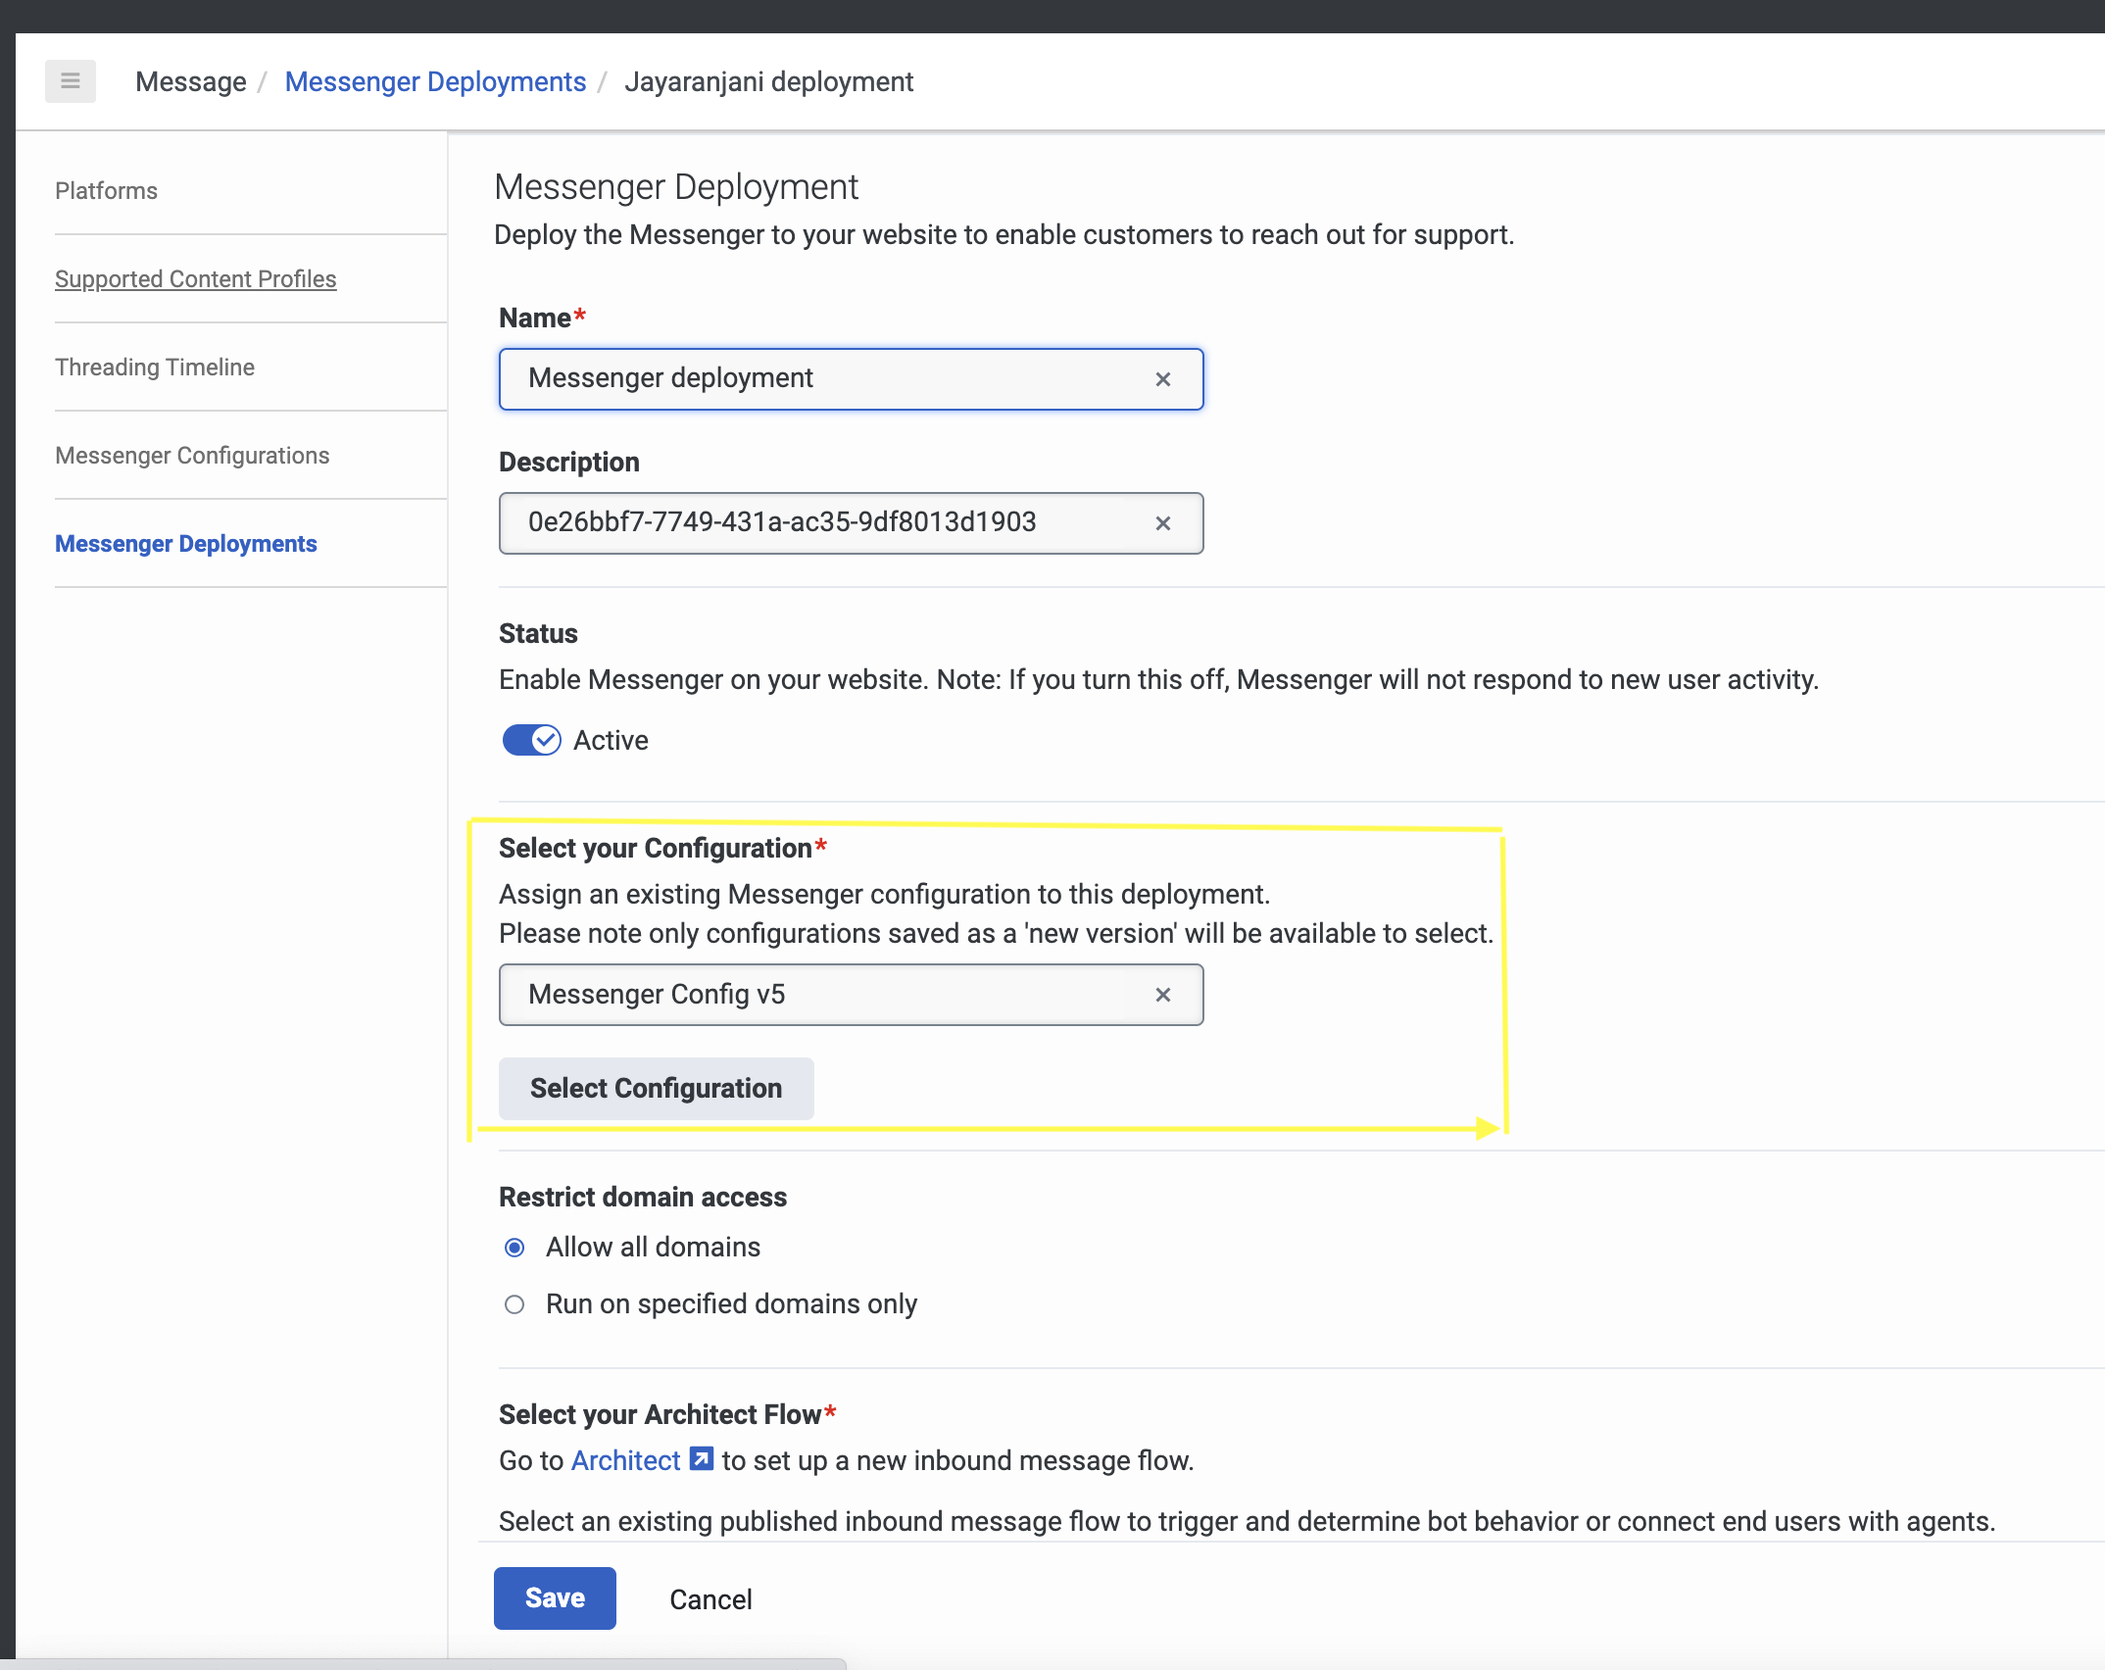
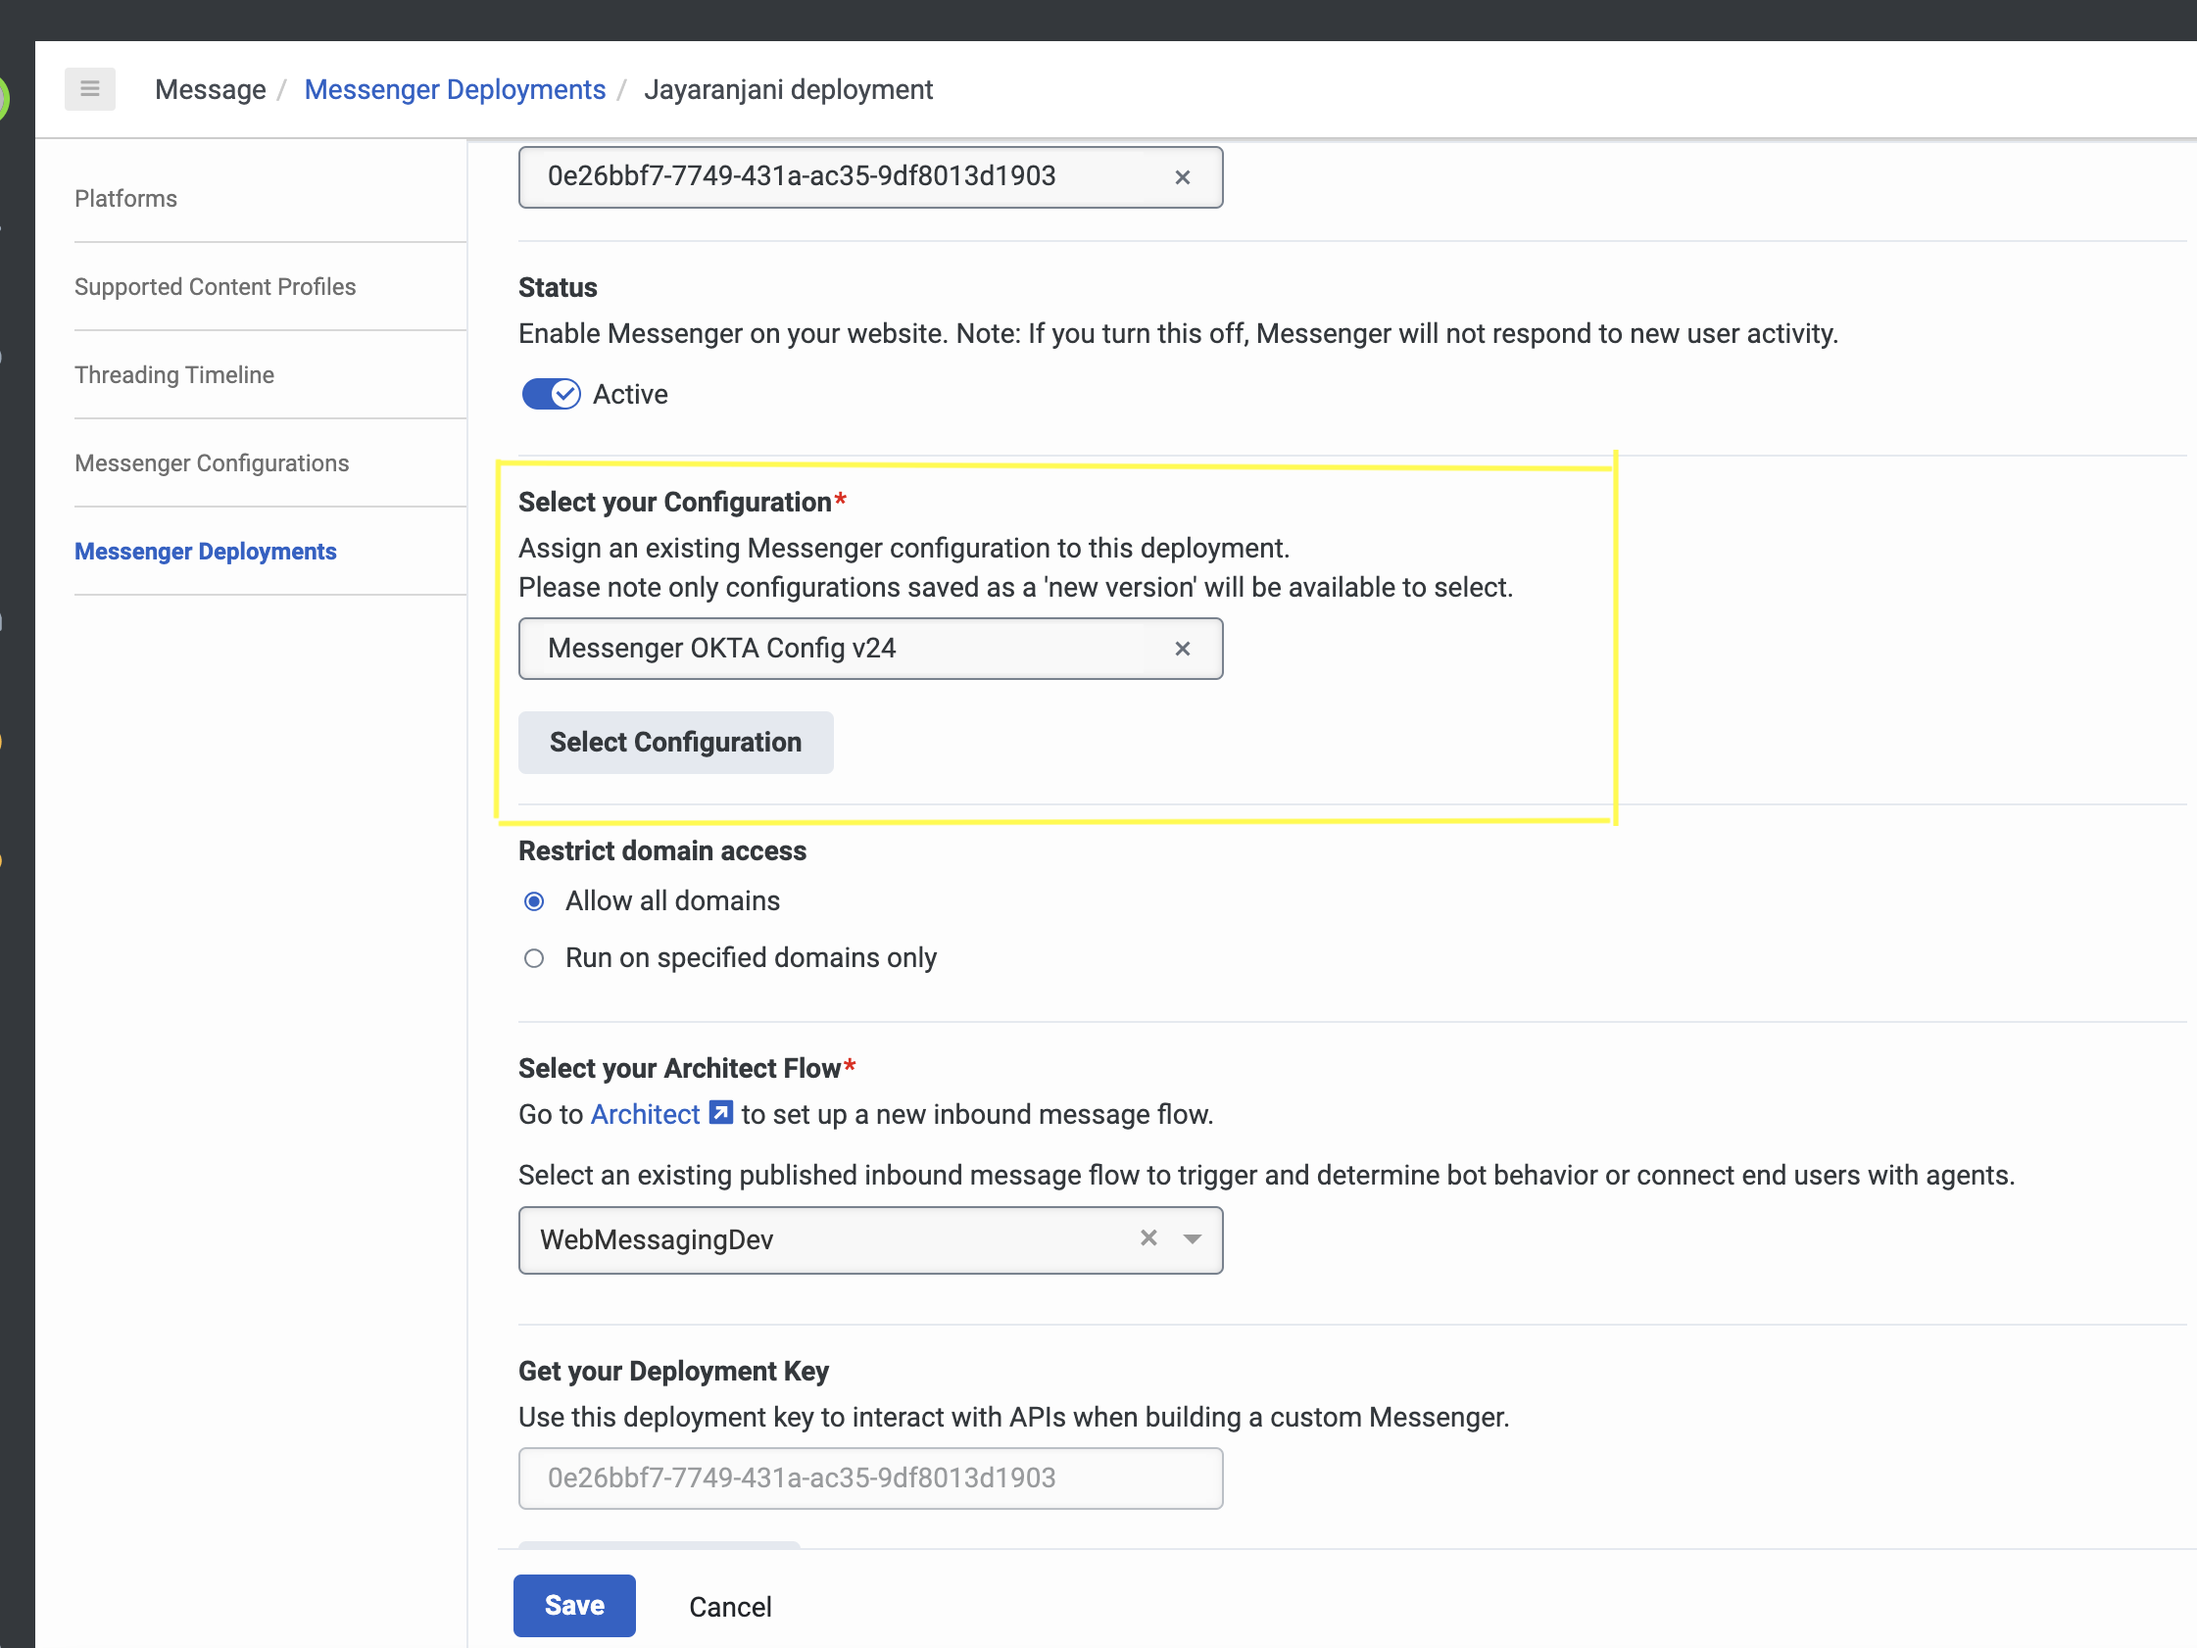
WEBMESS-601 : Messenger Integration with OKTA - Blueprint

Changed region(s): [[0.0, 0.0, 1.0, 1.0]]

diff --git a/blueprint/index-draft.md b/blueprint/index-draft.md
@@ -21,7 +21,7 @@ This page explains the steps that the users should follow to **Integrate Messeng
 
 ## Solution components
 
-**Genesys Cloud** - A suite of Genesys cloud services for enterprise-grade communications, collaboration, and contact center management. In this solution, a Genesys Cloud user account is required in order for the Messenger to be authorized to integrate with Genesys Cloud.
+**Genesys Cloud** - A suite of Genesys cloud services for enterprise-grade communications, collaboration, and contact center management. In this solution, a Genesys Cloud user account is required for your application to be authorized to integrate with Messenger.
 
 ## Prerequisites
 
@@ -44,7 +44,7 @@ Follow these instructions to integrate OKTA with Messenger.
 
 - [OKTA Set up](#okta-set-up "Goes to the OKTA Set up section")
 - [Configure Genesys Cloud](#configure-genesys-cloud "Goes to Configure Genesys Cloud")
-- [ADMIN UI Integration](#admin-ui-integration "Goes to ADMIN UI Integration")
+- [Genesys Cloud Integration](#integration "Goes to Genesys Cloud Integration")
 - [Messenger Configuration](#messenger-configuration "Goes to Messenger Configuration")
 - [Messenger Deployment](#messenger-deployment "Goes to Messenger Deployment")
 ## OKTA Set-Up:
@@ -70,58 +70,52 @@ Follow these instructions to integrate OKTA with Messenger.
 ![OKTA Application](./images/Assignment.png "OKTA Application page")
 
 8. Store the Client credentials safely for using it in [OpenID Connect Messenger Configuration](#openid-connect-messenger-configuration "Goes to OpenID Connect Messenger Configuration").
+9. Now you are ready with **OKTA** set-up.
 
 ## Configure Genesys Cloud
 
 To enable communication from **Genesys Cloud** to **Messenger** you must make changes in, 
-  1. OpenID Connect Messenger Configuration
+  1. Integration
   2. Messenger Configuration
   3. Messenger Deployment
 
 Login to Genesys Cloud account with your **Organization** and click **Admin** tab.
 
-![Admin Tab](./images/Admin.png "Admin UI page")
-## OpenID Connect Messenger Configuration:
+![Admin Tab](./images/Admin.png "Genesys Cloud page")
+## Integration:
 
-- In ADMIN UI, type **Integrations** on the search box.
-- Select **Integrations** and click **+Integrations** button are the right corner. 
+1. In **Genesys Cloud > Admin > Integrations**, click **+Integrations** button are the right corner. 
 
-  ![ADMIN UI Integration page](./images/Install_Integration.png "ADMIN UI Integration page")
+  ![Genesys Cloud Integration page](./images/Install_Integration.png "Genesys Cloud Integration page")
 
-- Install **OpenID Connect Messenger Configuration**.
+2. Install **OpenID Connect Messenger Configuration**.
 
-  ![ADMIN UI Integration page](./images/integration.png "ADMIN UI Integration page")
+  ![Genesys Cloud Integration page](./images/integration.png "Genesys Cloud Integration page")
 
-- In **Configuration** section, place the Discovery Uri - https://accounts.google.com/.well-known/openid-configuration.
+3. In **Configuration** section, place the Discovery Uri - https://accounts.google.com/.well-known/openid-configuration.
 
-  ![ADMIN UI Integration page](./images/Integration_properties.png "ADMIN UI Integration page")
+  ![Genesys Cloud Integration page](./images/Integration_properties.png "Genesys Cloud Integration page")
 
-- In **Credentials** section, click Configure and fill your client credentials created in **OKTA** Set-up step.
-- Click save.
-- Navigate to the main Integrations page and set your integration to Active.
+4. In **Credentials** section, click Configure and fill your client credentials created in **OKTA** Set-up step.
+5. Click save.
+6. Navigate to the main Integrations page and set your integration to **Active**.
 
-  ![ADMIN UI Integration page](./images/Active.png "ADMIN UI Integration page")
+  ![Genesys Cloud Integration page](./images/Active.png "Genesys Cloud Integration page")
 
 ## Messenger Configuration:
 
--  In ADMIN UI, type **Messenger Configuration** on the search box.
-- Under **Messenger Configuration**, enable Messenger configuration for Authenticated session.
-- Select the **OAuth integration** created from ADMIN UI Integration from the dropdown.
+1. In **Genesys Cloud > Admin > Messenger Configuration**, enable Authentication.
+2. Select the **OAuth integration** created from [Genesys Cloud Integration](#integration "Goes to Genesys Cloud Integration step") from the dropdown.
 
-  ![ADMIN UI Integration page](./images/Messenger-Okta-configuration.png "ADMIN UI Integration page")
-  
-- Now you are ready with **OKTA** set-up.
+  ![Genesys Cloud Integration page](./images/Messenger-Okta-configuration.png "Genesys Cloud Integration page")
 
 ## Messenger Deployment:
 
-- In ADMIN UI, type **Messenger Deployment** on the search box.
-- Under **Messenger Deployment**, select the **Configuration** created in the [Messenger Configuration](#messenger-configuration "Goes to Messenger Configuration step")
+1. In **Genesys Cloud > Admin > Messenger Deployment**, select the **Configuration** created in the [Messenger Configuration](#messenger-configuration "Goes to Messenger Configuration step")
 
- ![ADMIN UI Messenger Deployment](./images/Configuration.png "ADMIN UI Messenger Deployment")
+ ![Genesys Cloud Messenger Deployment](./images/Configuration.png "Genesys Cloud Messenger Deployment")
 
- - Save the deployment. This creates a code Snippet.
- - Use this code snippet on the website pages you would like the Messenger to appear.
+3. Save the deployment. This creates a single Snippet.
+4. Use this single snippet on the website pages you would like the Messenger to appear.
 
- ![ADMIN UI Messenger Deployment](./images/Snippet.png "ADMIN UI Messenger Deployment")
-
- - After deploying the snippet, future saved changes to the configuration and deployment will be applied automatically.
+ ![Genesys Cloud Messenger Deployment](./images/Snippet.png "Genesys Cloud Messenger Deployment")

diff --git a/README.md b/README.md
@@ -1,2 +1,5 @@
-# messenger-authentication-okta-integration-blueprint
-This blueprint demonstrates how to integrate web messenger with OKTA to perform SSO integration
+# Integrate Messenger with OKTA
+
+> View the full [OKTA Integration with Messenger on Genesys Cloud Blueprint article](https://developer.mypurecloud.com/blueprints/messenger-blueprint/) on the Genesys Cloud Developer Center.
+
+This Genesys Cloud Developer Blueprint provides instructions to integrate web messenger with OKTA to perform SSO integration. The blueprint also contains steps for setting up an OKTA account to get authorization credentials.
